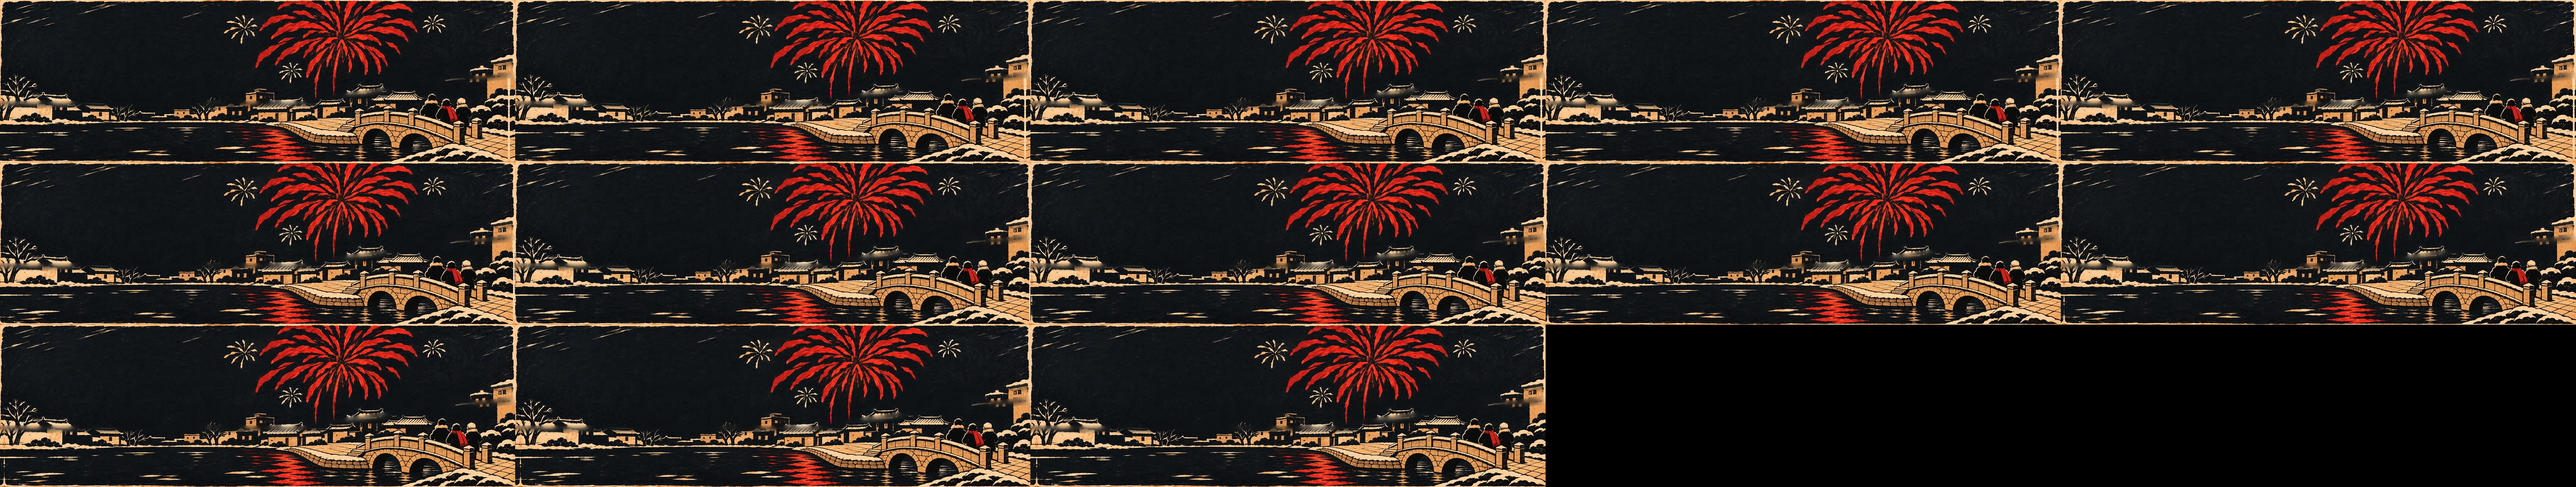
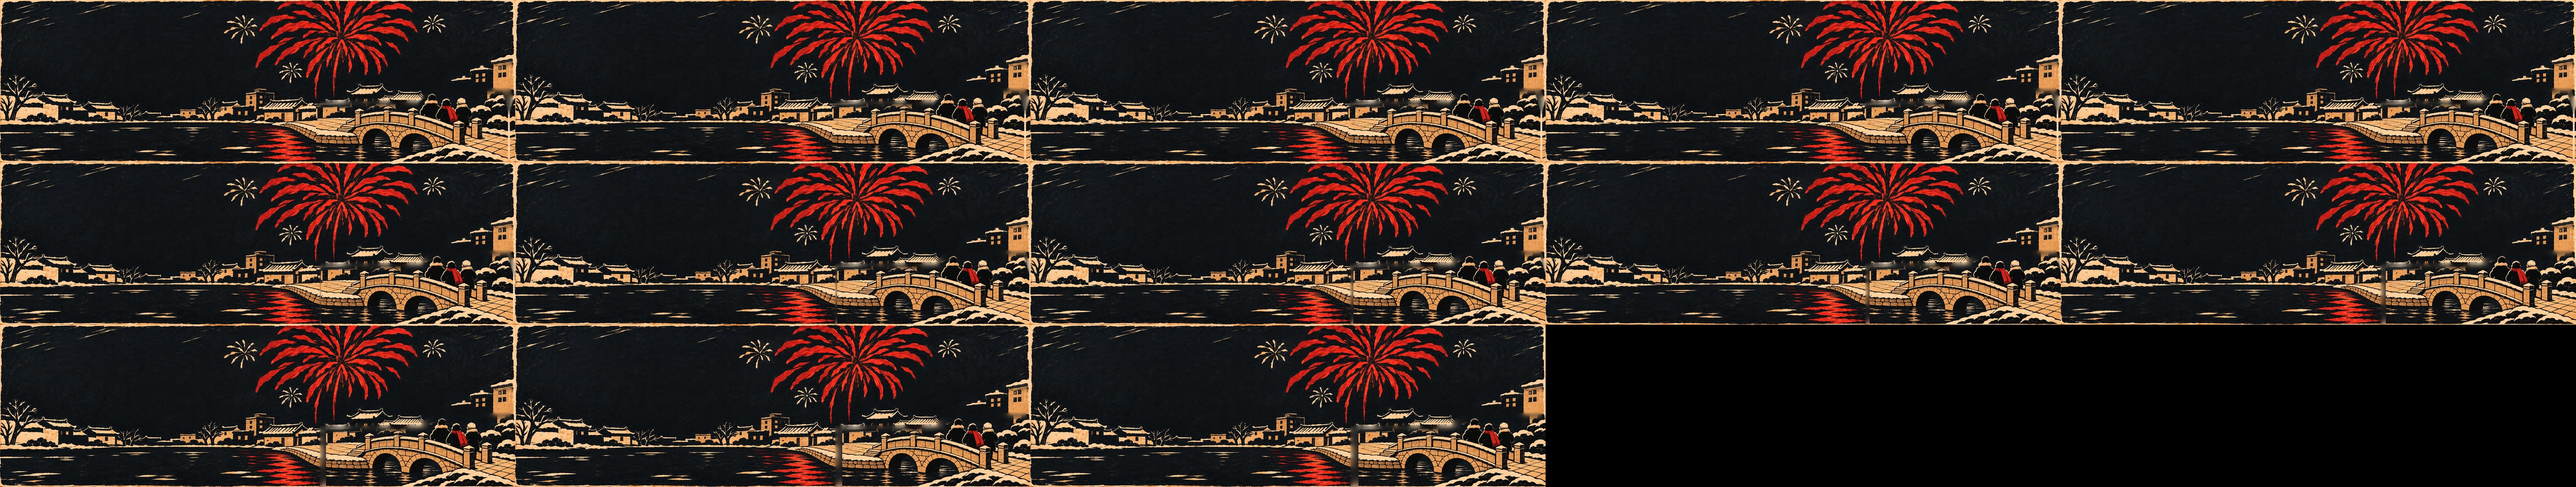
fix(app): 元旦图集 v18——桥体单层视差＋彩蛋改金色烟花
图集分层修：旧 mask 的 y=210 横切小镇楼体、斜线横切右楼，楼上下
两截一动一静，滑动时建筑分层。v18 只让桥+行人动（x>=640、边界贴
栏杆顶与行人头顶），小镇/河面整块静止；实测小镇区帧 0 vs 帧 12
差 0.0、桥体区最佳对齐 dx=-24。
彩蛋改：金色五角星像贴纸，改成左上夜空一朵金色烟花（中心 300,65），
和画面里已有的烟花同一种东西。

diff --git a/ios/App/App/BearyProfileCoverView.swift b/ios/App/App/BearyProfileCoverView.swift
@@ -38,10 +38,10 @@ public final class ProfileCoverView: UIView {
         case .canada: names.append("floatplane")
         case .korea: names.append("kite")
         case .newyear:
-            // 元旦：动态物是金色烟花余烬一张 PNG；彩蛋一张（大烟花中心金色
-            // 五角星＋光晕），与第 7 帧对齐、只在烟花中心可见。
+            // 元旦：动态物是金色烟花余烬一张 PNG；彩蛋一张（左上夜空一朵金色
+            // 烟花，中心 (300, 65)），与第 7 帧对齐。
             names.append("newyear-embers")
-            names.append("newyear-egg-star")
+            names.append("newyear-egg-burst")
         }
         var images: [String: UIImage] = [:]
         for name in names {
@@ -292,7 +292,7 @@ public final class ProfileCoverView: UIView {
     }
 
     /// 元旦（中式木刻版画、深蓝夜＋金色烟花）：图集只含背景，余烬由动态物层单独贴；
-    /// 彩蛋一张是与第 7 帧对齐的整帧透明层（大烟花中心金色五角星＋光晕）。
+    /// 彩蛋一张是与第 7 帧对齐的整帧透明层（左上夜空一朵金色烟花，中心 (300, 65)）。
     /// 坐标全按帧坐标（1024×323）算、再乘 padded 的拉伸比换到画布坐标，与 drawBackdrop 同一套映射。
     /// 视差翻倍版：帧 f 结构平移 2(f−6) px（±12）、主体平移 4(f−6) px（±24）。
     private func drawNewyear(_ ctx: CGContext, depth: CGFloat, vertical: CGFloat, padded: CGRect) {
@@ -303,10 +303,10 @@ public final class ProfileCoverView: UIView {
         // 平移 4(f−6) px，即 24*depth。
         let structureX = 12 * depth * scaleX
         let subjectX = 24 * depth * scaleX
-        // 彩蛋：大烟花中心金色五角星＋光晕，倾斜保持 0.45 秒后随 egg 淡入（触发走共享
+        // 彩蛋：左上夜空一朵金色烟花，倾斜保持 0.45 秒后随 egg 淡入（触发走共享
         // step 逻辑，与圣诞同款；每次进页 restartVisit 可再触发）。
         if egg > 0.001 {
-            bitmap("newyear-egg-star", in: ctx,
+            bitmap("newyear-egg-burst", in: ctx,
                    center: CGPoint(x: padded.midX + structureX, y: padded.midY),
                    width: padded.width, height: padded.height, angle: 0, alpha: egg)
         }
